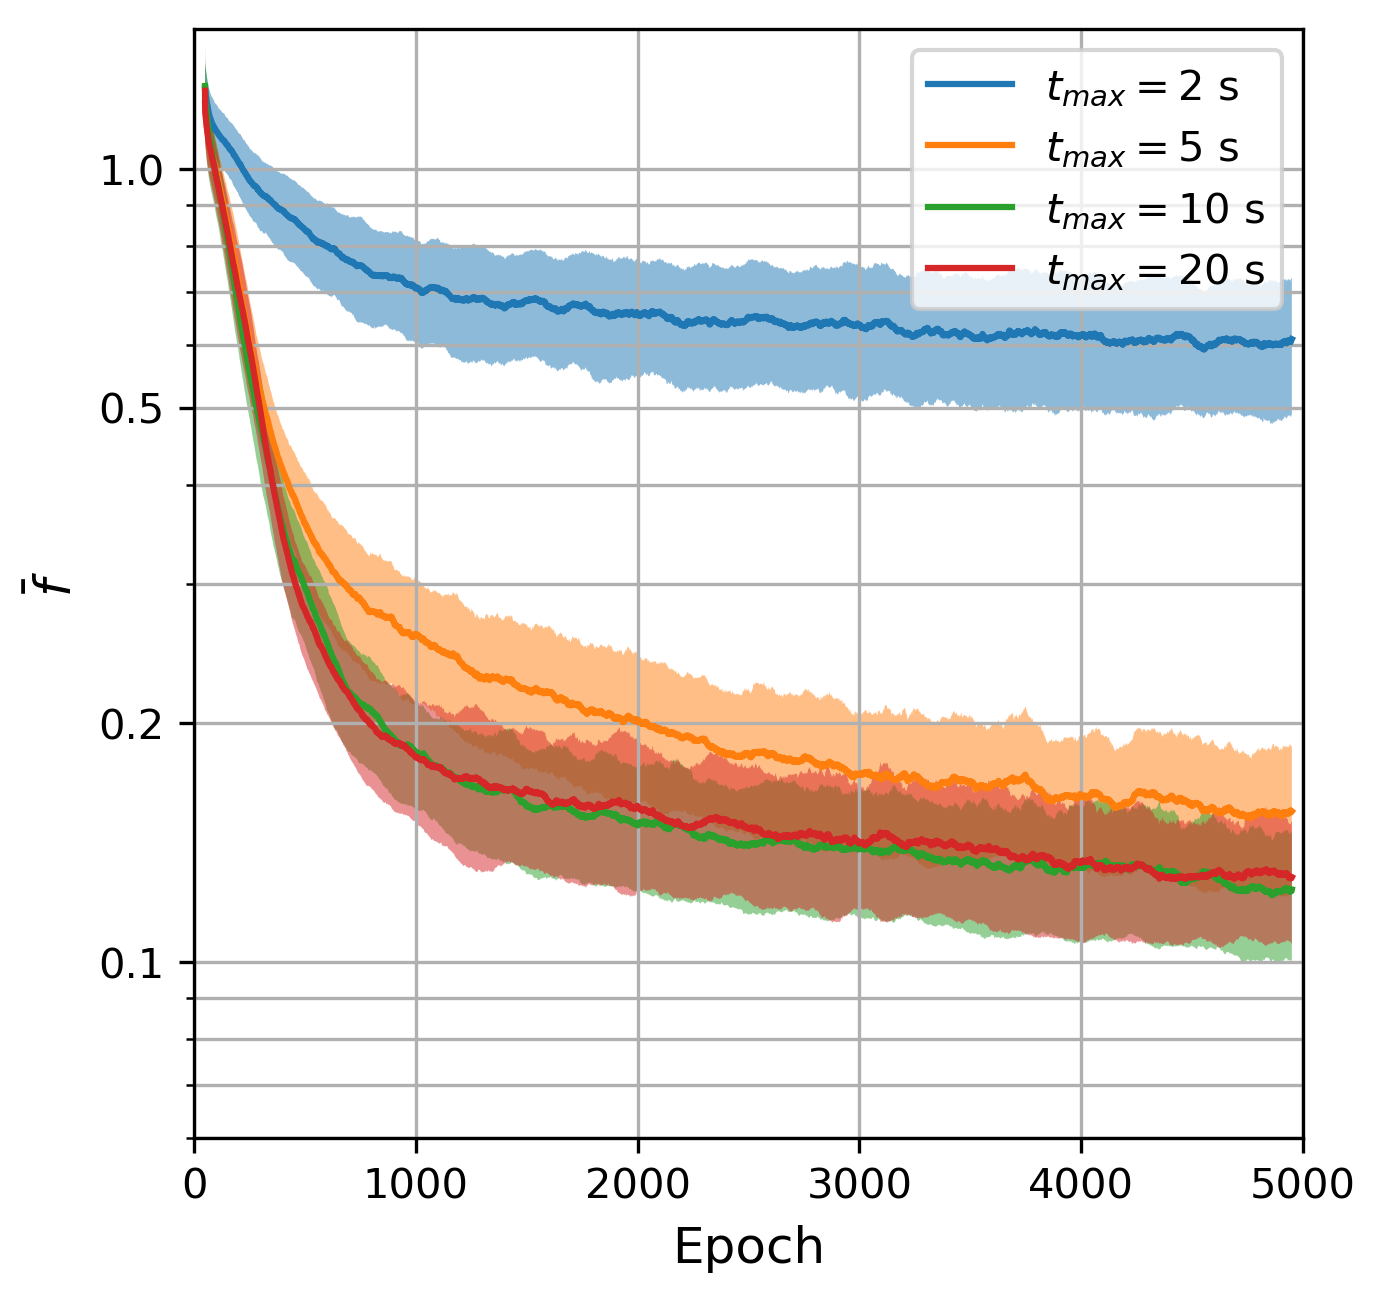
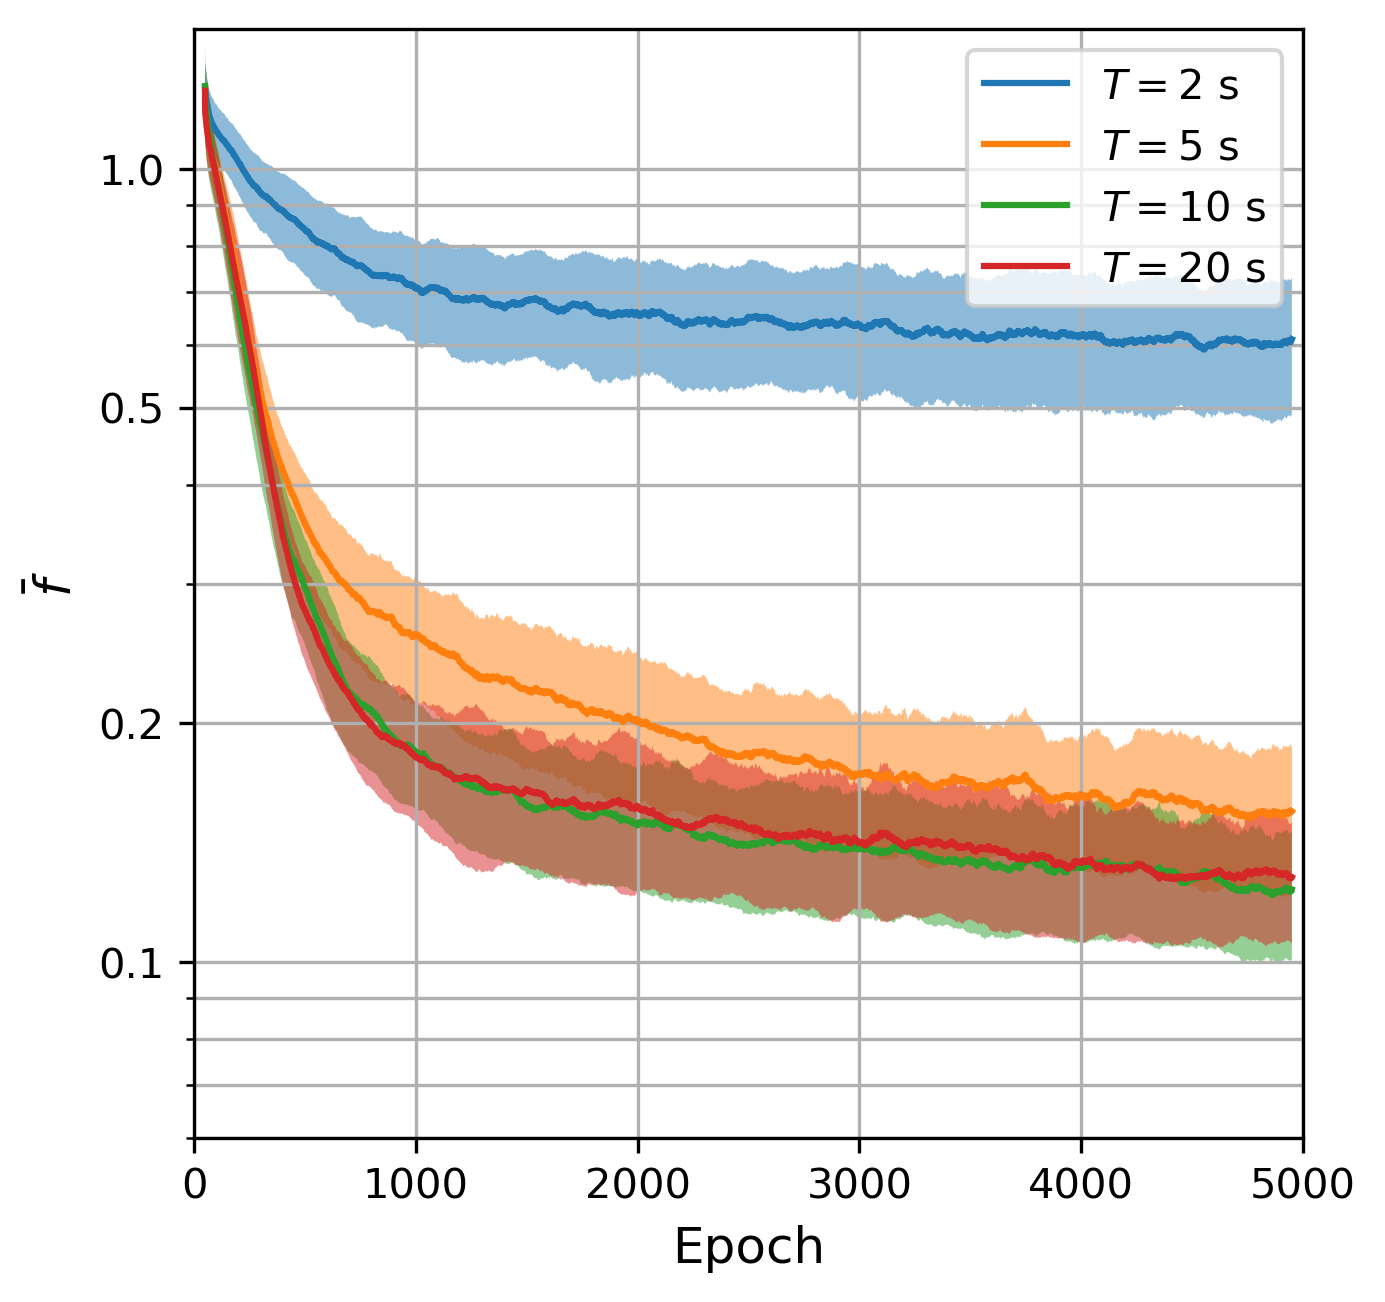
Minor changes

Changed region(s): [[0.652, 0.0307, 0.9314, 0.2458]]

diff --git a/analysis/statistics.py b/analysis/statistics.py
@@ -33,16 +33,16 @@ N = 10000
 population = np.repeat(best_genome, N, axis=0)
 
 
-config['dt'] = 0.001
-config['t_max'] = 10
+config['dt'] = 0.01
+config['t_max'] = 5
 
 f1s, f2s, formation, position_history, collided = single_evaluate(config, population, analysis=True, identical_start=False)
 
 
 
-print('f: ', np.mean(f1s+f2s))
-print('f1:', np.mean(f1s))
-print('f2:', np.mean(f2s))
+print('f: ', np.mean(f1s+f2s), np.std(f1s+f2s))
+print('f1:', np.mean(f1s), np.std(f1s))
+print('f2:', np.mean(f2s), np.std(f2s))
 print('Collision rate:', np.sum(collided==0) / N * 100 ,'%')
 print('Success rate:', np.sum(f1s<0.1) / N * 100, '%')
 

diff --git a/analysis/convergence/convergence_tmax.py b/analysis/convergence/convergence_tmax.py
@@ -38,7 +38,7 @@ for key in all_fitnesses:
     f_mean = np.convolve(f_mean, np.ones(n_windows) / n_windows, mode='valid')
     f_std = np.convolve(f_std, np.ones(n_windows) / n_windows, mode='valid')
 
-    ax.semilogy(epochs, f_mean, label=r'$t_{{max}}={0}\ \mathrm{{s}}$'.format(key))
+    ax.semilogy(epochs, f_mean, label=r'$T={0}\ \mathrm{{s}}$'.format(key))
     ax.fill_between(epochs, f_mean - f_std, f_mean+f_std,  alpha=0.5)
 
 key = 't_max'
